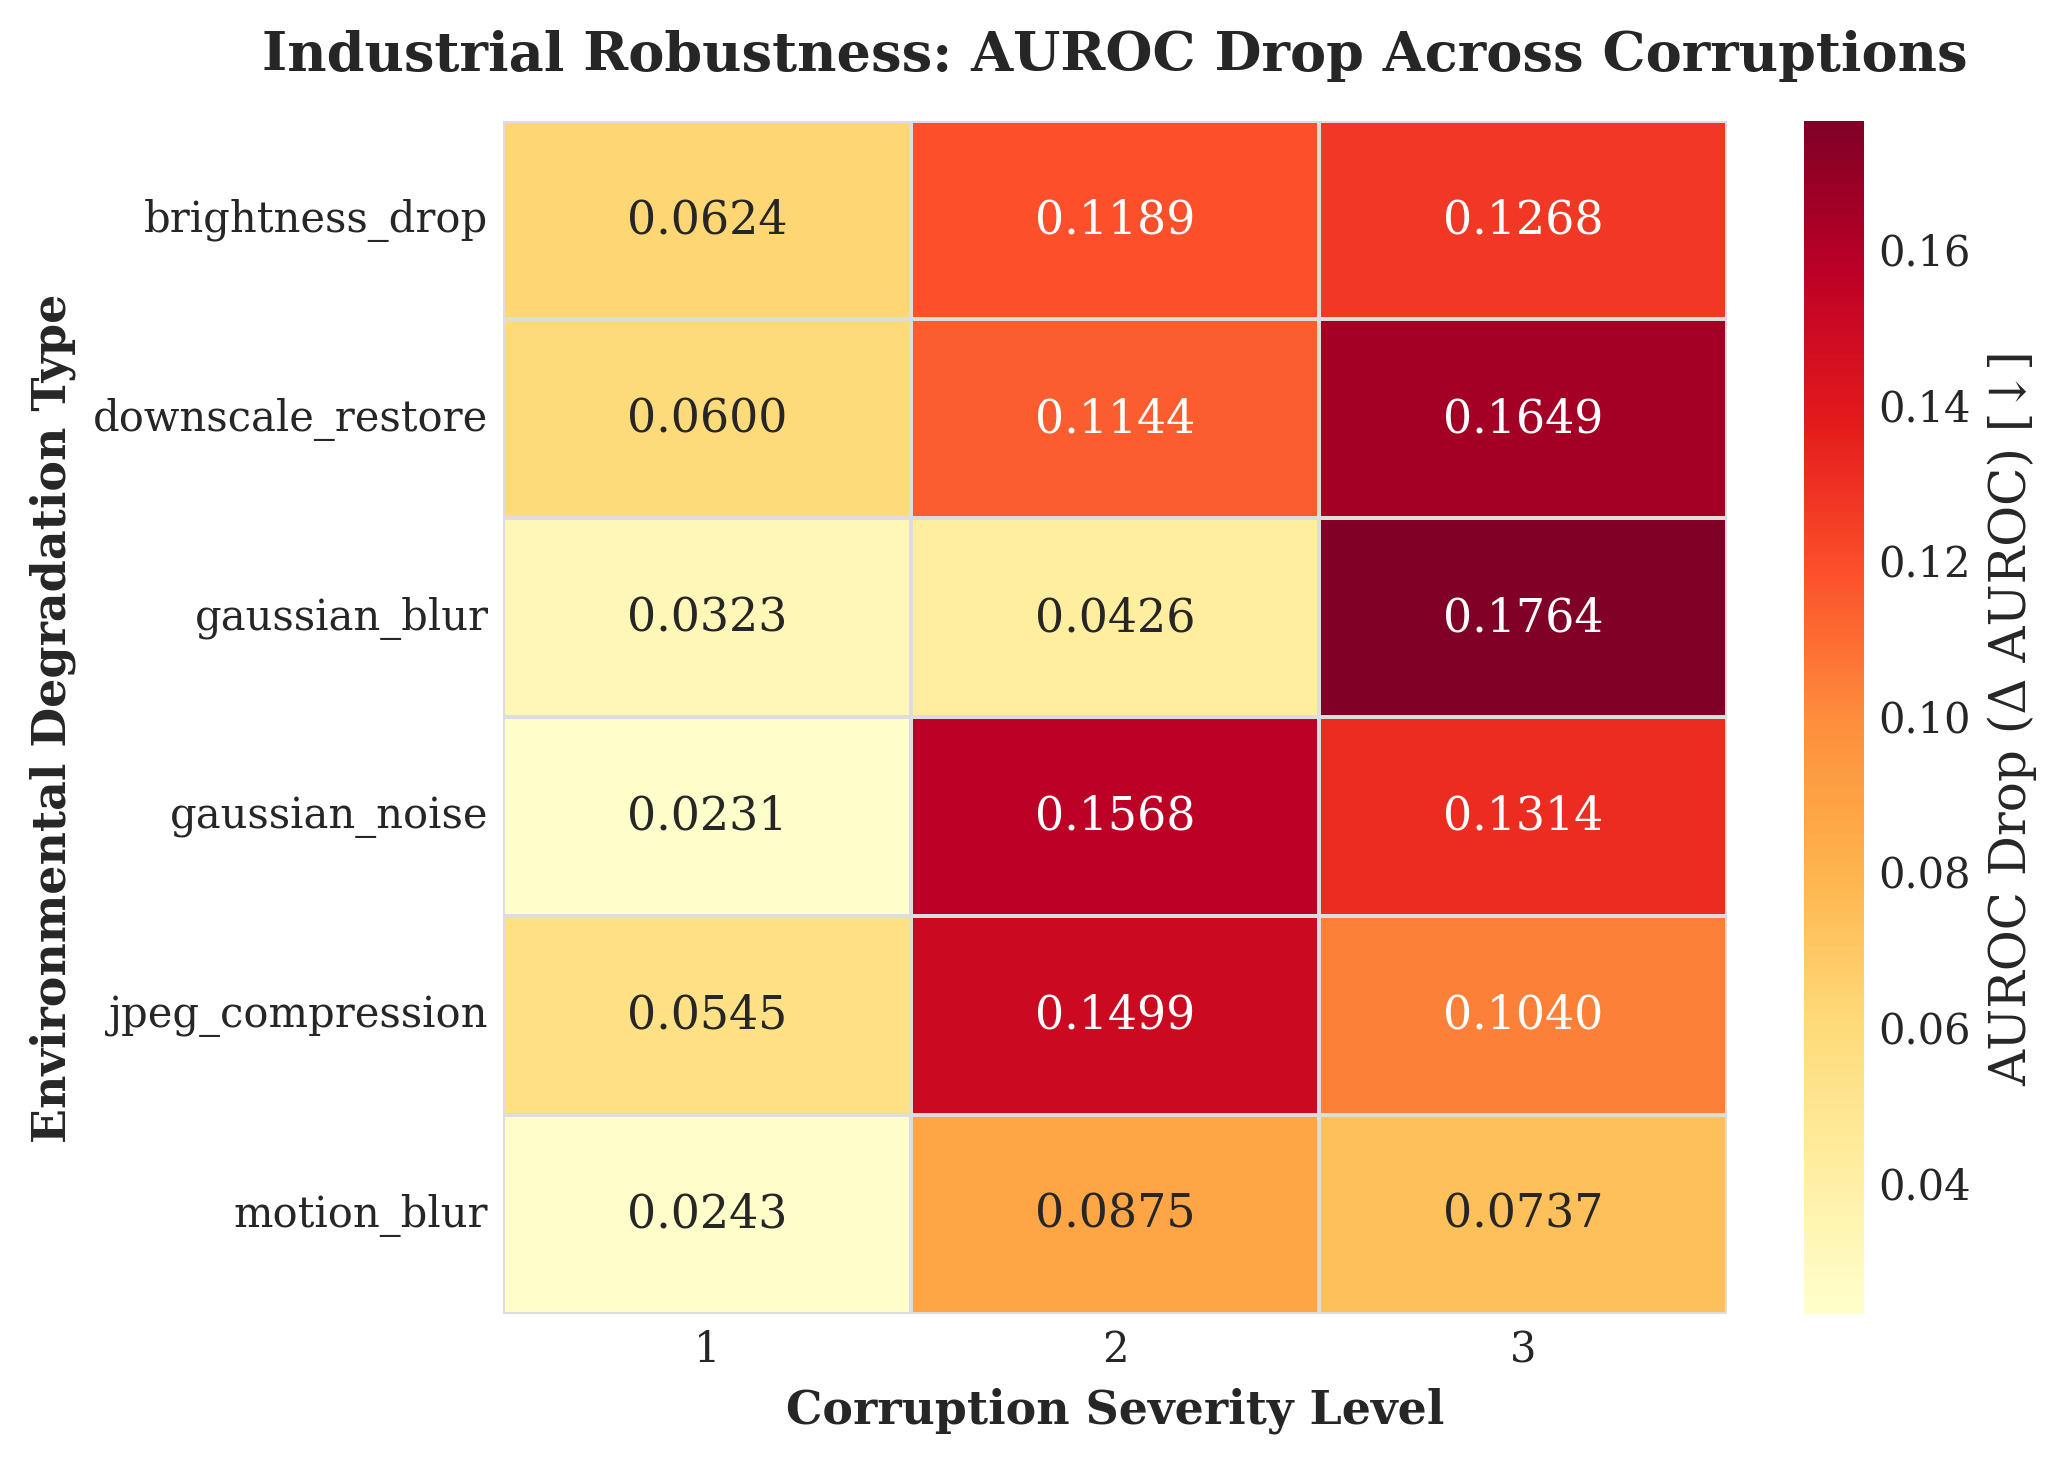
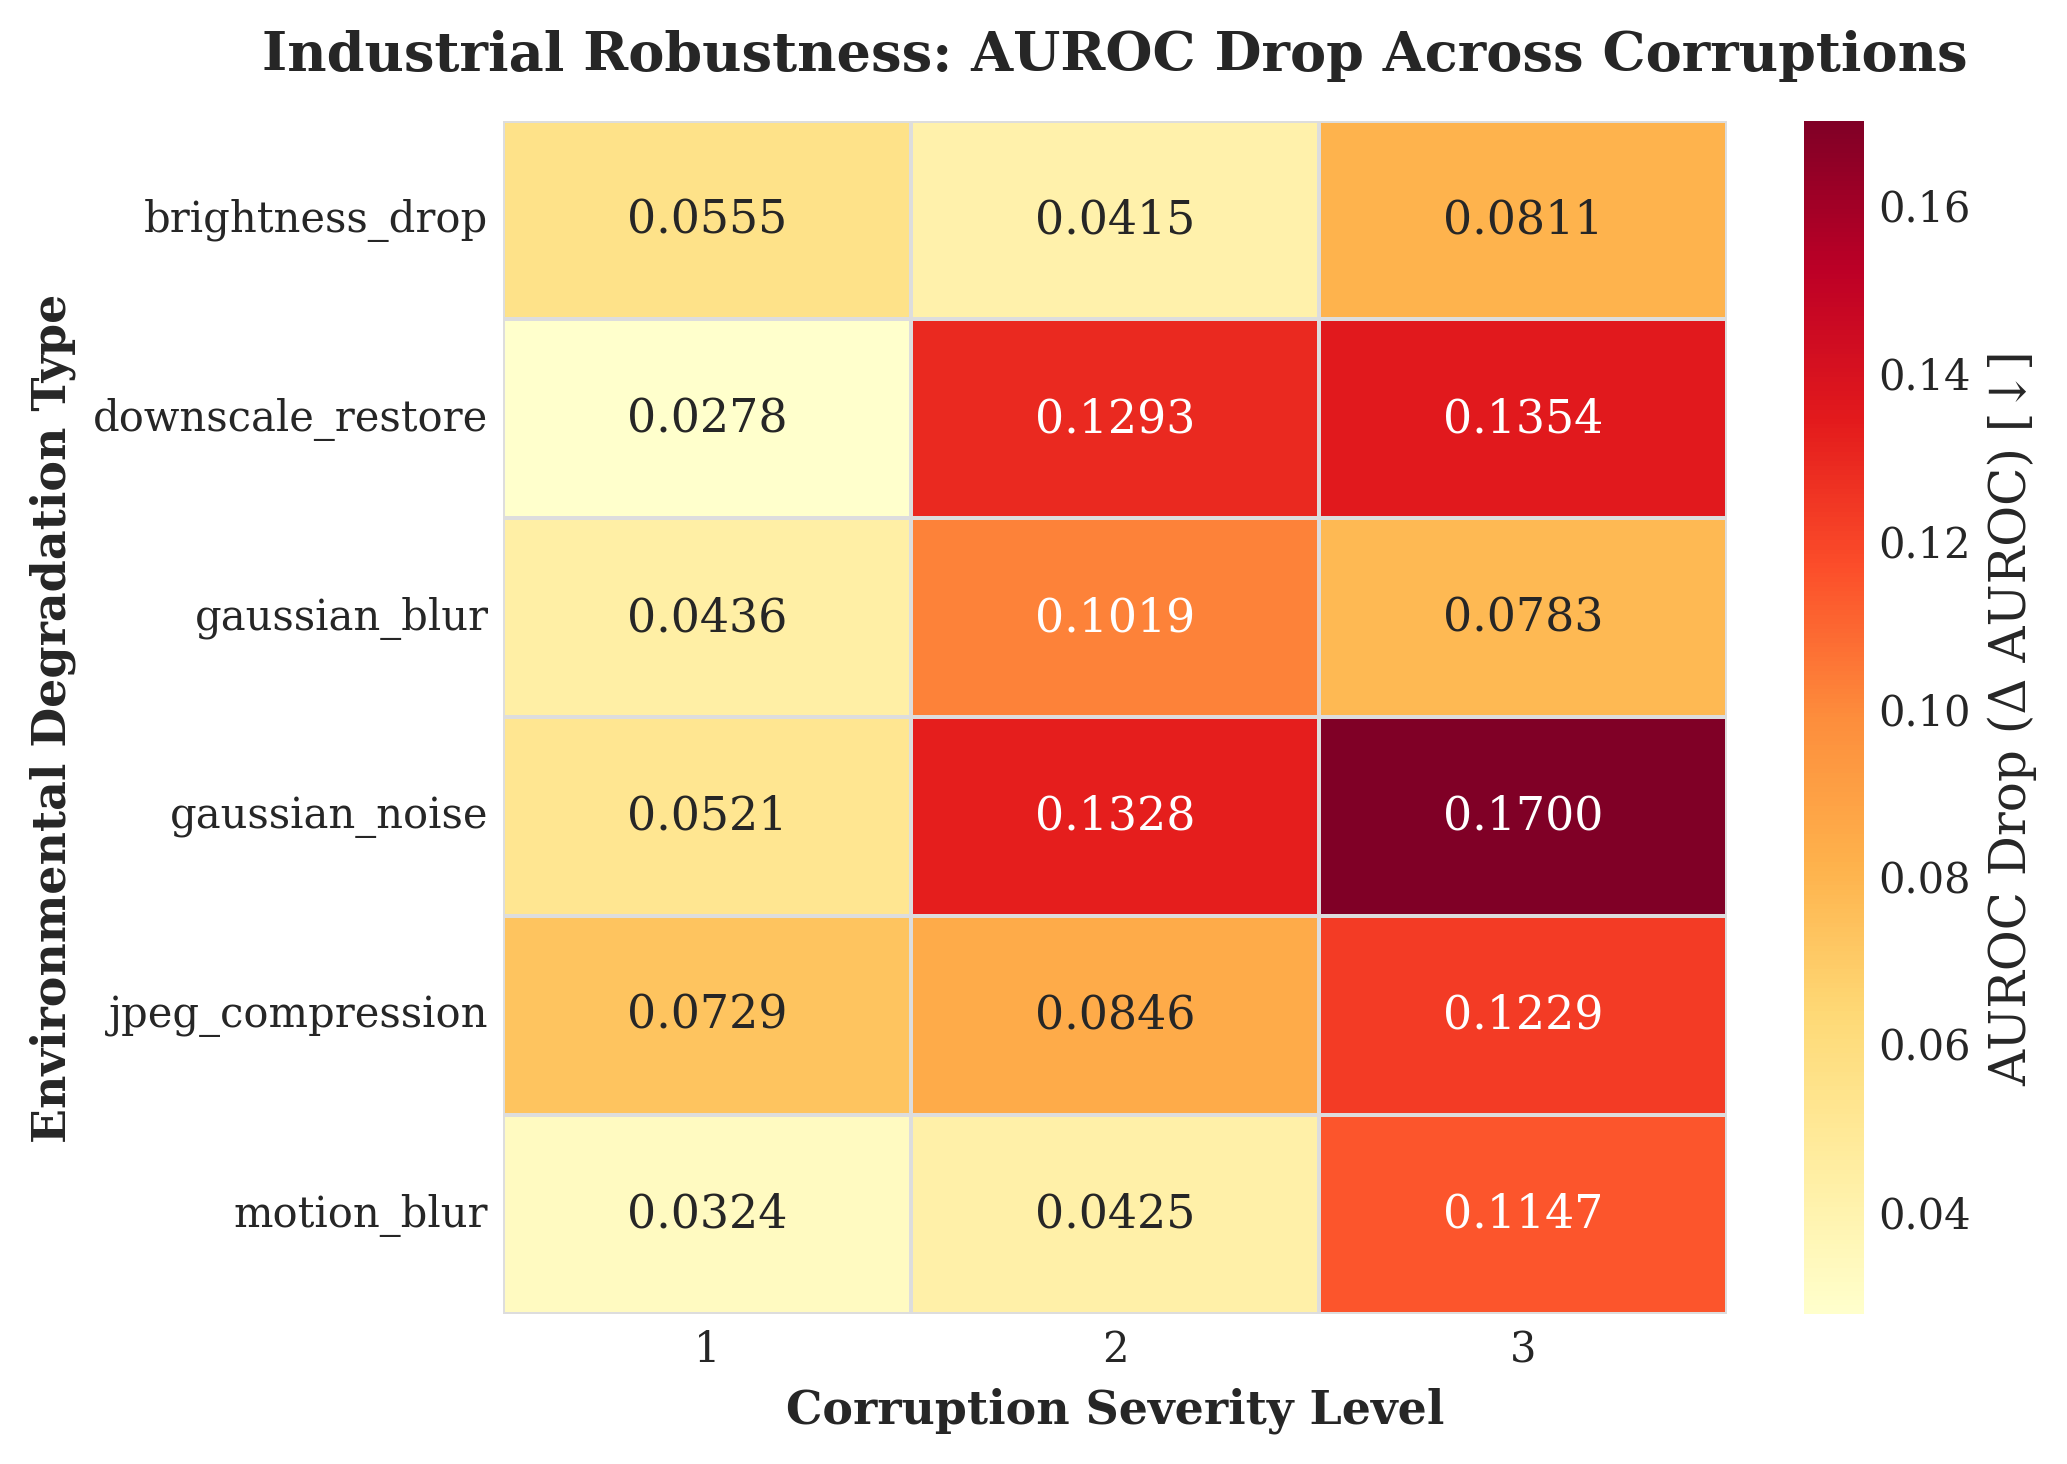
fix(systems): vectorize GPU coreset benchmark, fix shell shebang CRLF, and chunk coverage radius

diff --git a/src/experiments/coreset_systems.py b/src/experiments/coreset_systems.py
@@ -78,6 +78,7 @@ def gpu_batched_vectorized(
     """
     High-performance batched vectorized k-center on GPU utilizing algebraic distance expansion:
       ||x - y||^2 = ||x||^2 + ||y||^2 - 2 <x, y>
+    and top-k batch selection without serial scalar synchronization.
     """
     device = features.device
     if device.type == "cuda":
@@ -95,28 +96,26 @@ def gpu_batched_vectorized(
     x_sq = torch.sum(features ** 2, dim=1)
     
     # Initial distance
-    diff = features - features[first_idx]
-    min_distances = torch.sum(diff ** 2, dim=1)
+    start_pt = features[first_idx]
+    start_sq_norm = torch.sum(start_pt ** 2)
+    dot_start = torch.mv(features, start_pt)
+    min_distances_sq = torch.clamp(x_sq + start_sq_norm - 2.0 * dot_start, min=0.0)
     
     while len(selected_indices) < target_size:
         curr_batch_k = min(batch_k, target_size - len(selected_indices))
-        batch_new_indices = []
-        temp_min_dist = min_distances.clone()
-        
-        for _ in range(curr_batch_k):
-            next_idx = int(torch.argmax(temp_min_dist).item())
-            batch_new_indices.append(next_idx)
-            temp_min_dist[next_idx] = -1.0
+        if curr_batch_k == 1:
+            next_idx = int(torch.argmax(min_distances_sq).item())
+            selected_indices.append(next_idx)
+            query_pts = features[next_idx:next_idx+1]
+        else:
+            _, top_idx = torch.topk(min_distances_sq, k=curr_batch_k)
+            selected_indices.extend(top_idx.cpu().tolist())
+            query_pts = features[top_idx]
             
-        # Vectorized batch distance calculation
-        batch_t = features[batch_new_indices]  # (K, D)
-        y_sq = torch.sum(batch_t ** 2, dim=1)  # (K,)
-        dist_matrix = x_sq.unsqueeze(1) + y_sq.unsqueeze(0) - 2.0 * torch.matmul(features, batch_t.t())  # (N, K)
-        dist_matrix = torch.clamp(dist_matrix, min=0.0)
-        
-        batch_min_dist, _ = torch.min(dist_matrix, dim=1)
-        min_distances = torch.minimum(min_distances, batch_min_dist)
-        selected_indices.extend(batch_new_indices)
+        dots = torch.matmul(features, query_pts.T)
+        q_sq = torch.sum(query_pts ** 2, dim=1).unsqueeze(0)
+        dist_sqs = torch.clamp(x_sq.unsqueeze(1) + q_sq - 2.0 * dots, min=0.0)
+        min_distances_sq = torch.minimum(min_distances_sq, torch.min(dist_sqs, dim=1).values)
         
     if device.type == "cuda":
         torch.cuda.synchronize(device)
@@ -140,15 +139,21 @@ def random_subsampling(n_samples: int, target_size: int, seed: int = 42) -> Tupl
     return indices, elapsed
 
 
-def compute_coverage_radius(features: np.ndarray, selected_indices: np.ndarray) -> float:
+def compute_coverage_radius(features: np.ndarray, selected_indices: np.ndarray, chunk_size: int = 1024) -> float:
     """
-    Computes minimax coverage radius: max_{x in X} min_{c in C} ||x - c||.
+    Computes minimax coverage radius: max_{x in X} min_{c in C} ||x - c|| using chunked torch.cdist.
     """
-    coreset = features[selected_indices]
-    diff = features[:, None, :] - coreset[None, :, :]
-    dists = np.sqrt(np.sum(diff ** 2, axis=-1))
-    min_dists = np.min(dists, axis=1)
-    return float(np.max(min_dists))
+    device = torch.device("cuda" if torch.cuda.is_available() else "cpu")
+    X = torch.from_numpy(features).to(device)
+    C = X[selected_indices]
+    max_min_dist = 0.0
+    with torch.no_grad():
+        for i in range(0, X.shape[0], chunk_size):
+            chunk = X[i:i + chunk_size]
+            dists = torch.cdist(chunk, C, p=2.0)
+            min_d, _ = torch.min(dists, dim=1)
+            max_min_dist = max(max_min_dist, float(torch.max(min_d).item()))
+    return float(max_min_dist)
 
 
 def run_coreset_systems_benchmark(

diff --git a/results/mvtec_ad/tables/coreset_systems.md b/results/mvtec_ad/tables/coreset_systems.md
@@ -2,7 +2,7 @@
 
 | method                 |   runtime_sec |   speedup_vs_cpu |   peak_vram_mb |   coverage_radius |
 |:-----------------------|--------------:|-----------------:|---------------:|------------------:|
-| cpu_sequential_greedy  |      1.55192  |         1        |         0      |           14.9339 |
-| gpu_unbatched_greedy   |      1.61682  |         0.959857 |        14.7642 |           14.9248 |
-| gpu_batched_vectorized |      6.92866  |         0.223985 |        17.5757 |           14.9247 |
-| random_subsampling     |      0.155713 |         9.96651  |         0      |           15.3702 |
+| cpu_sequential_greedy  |   1.81195     |           1      |         0      |           14.9339 |
+| gpu_unbatched_greedy   |   0.122254    |          14.8212 |        14.7642 |           14.9248 |
+| gpu_batched_vectorized |   0.00659756  |         274.64   |        14.5635 |           14.9247 |
+| random_subsampling     |   0.000621049 |        2917.57   |         0      |           15.3702 |
